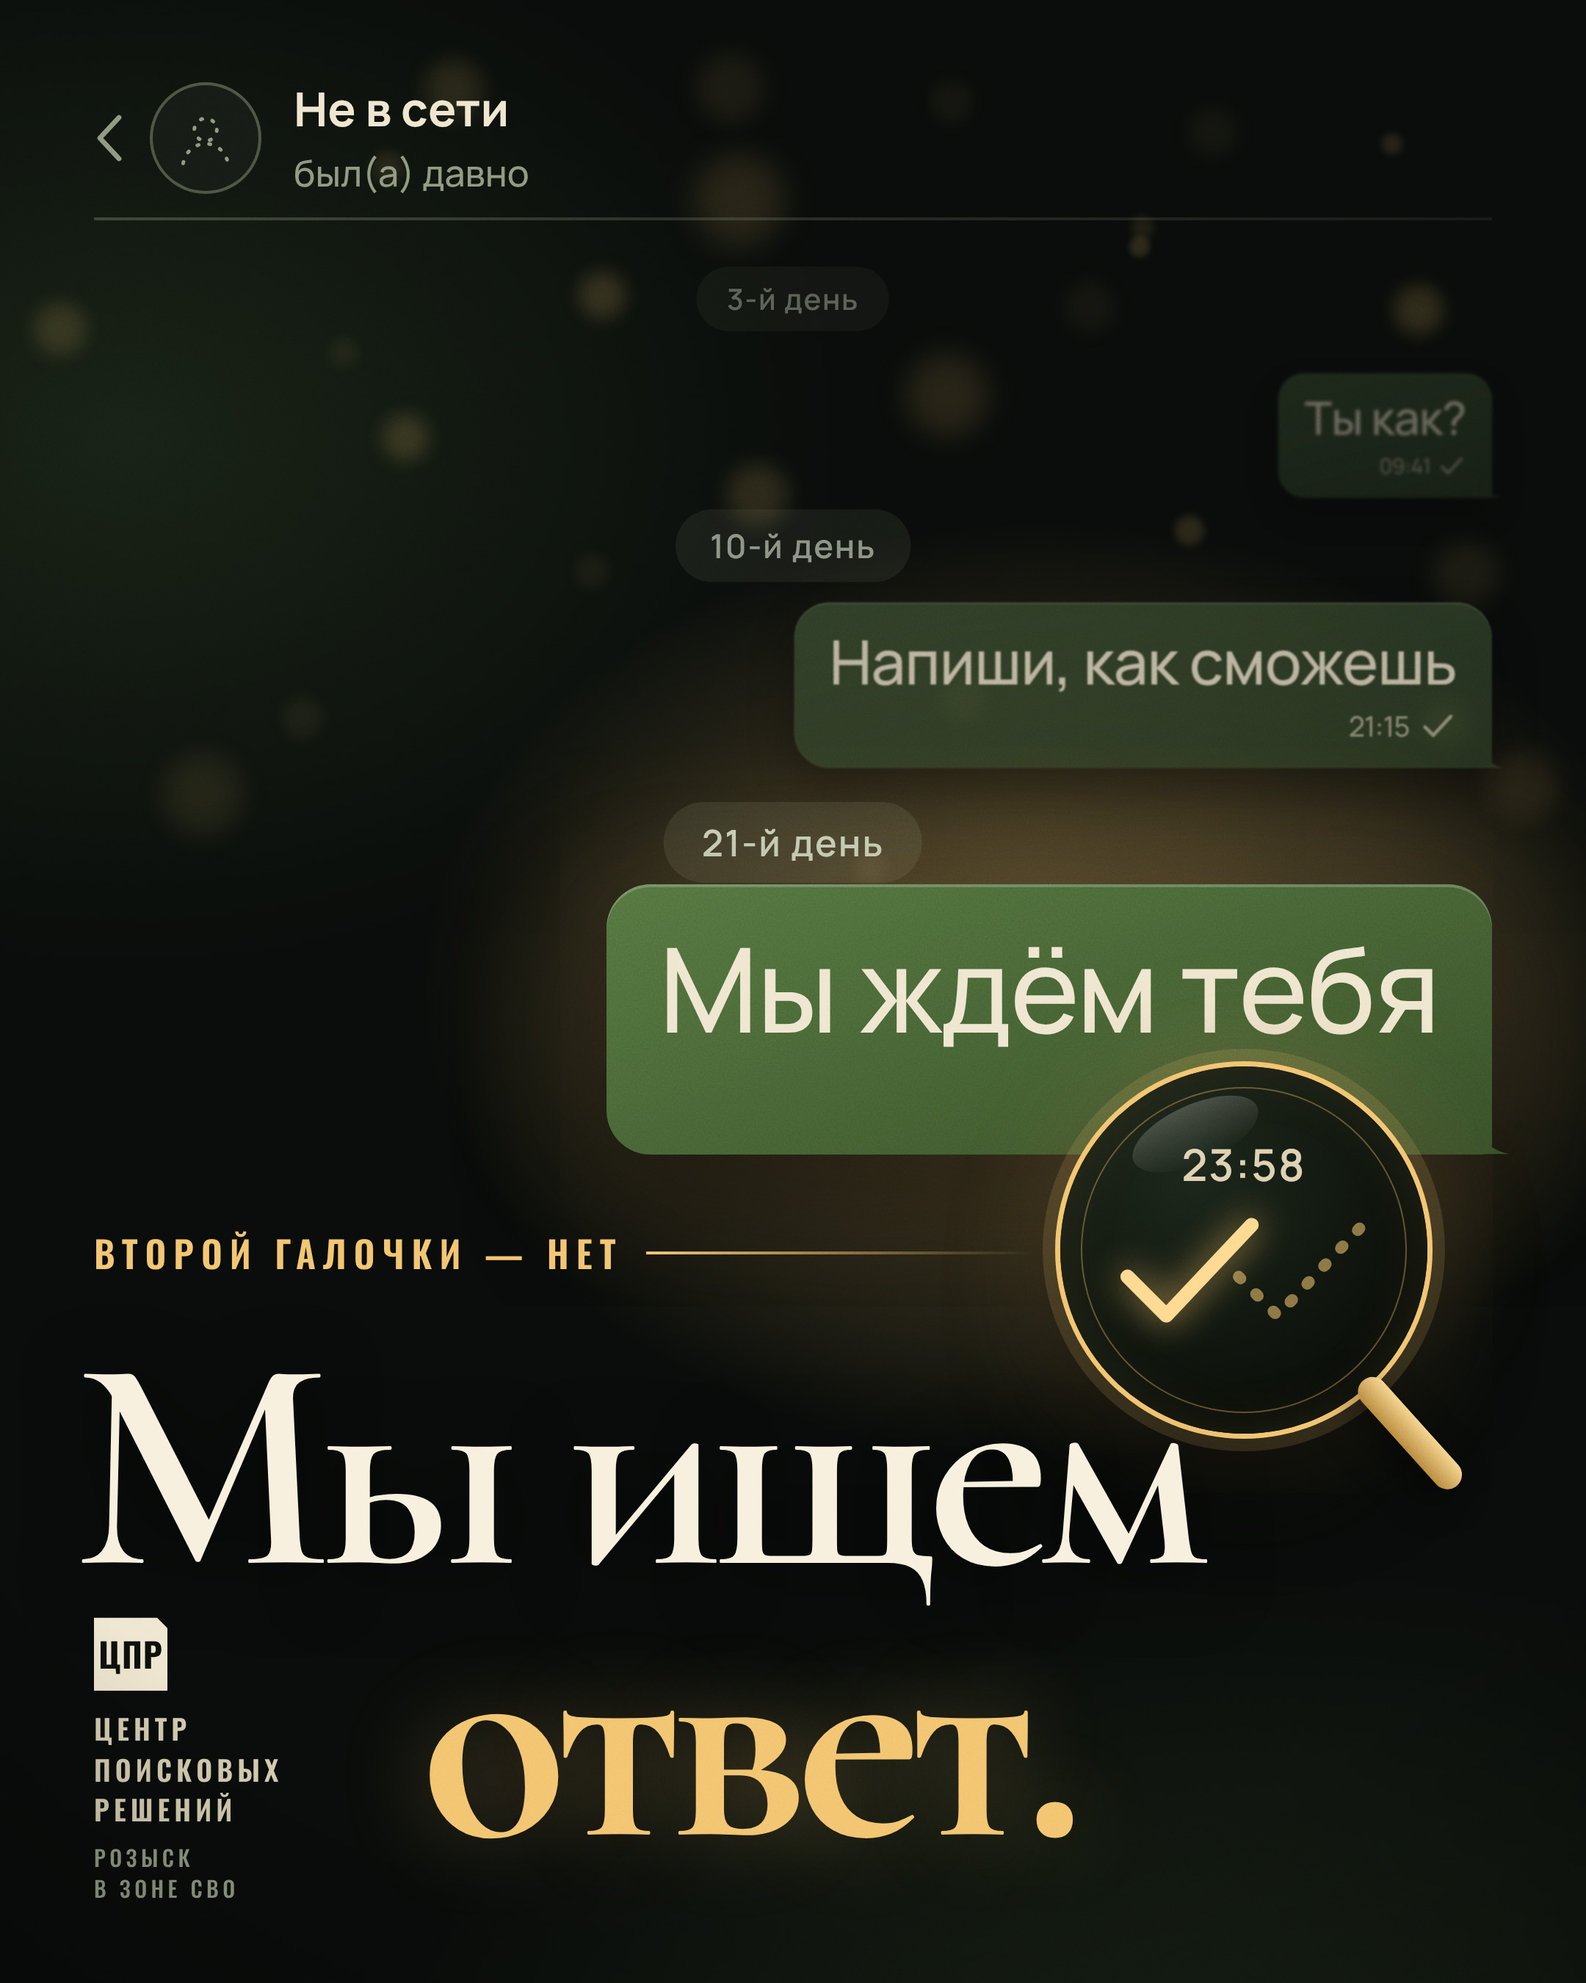
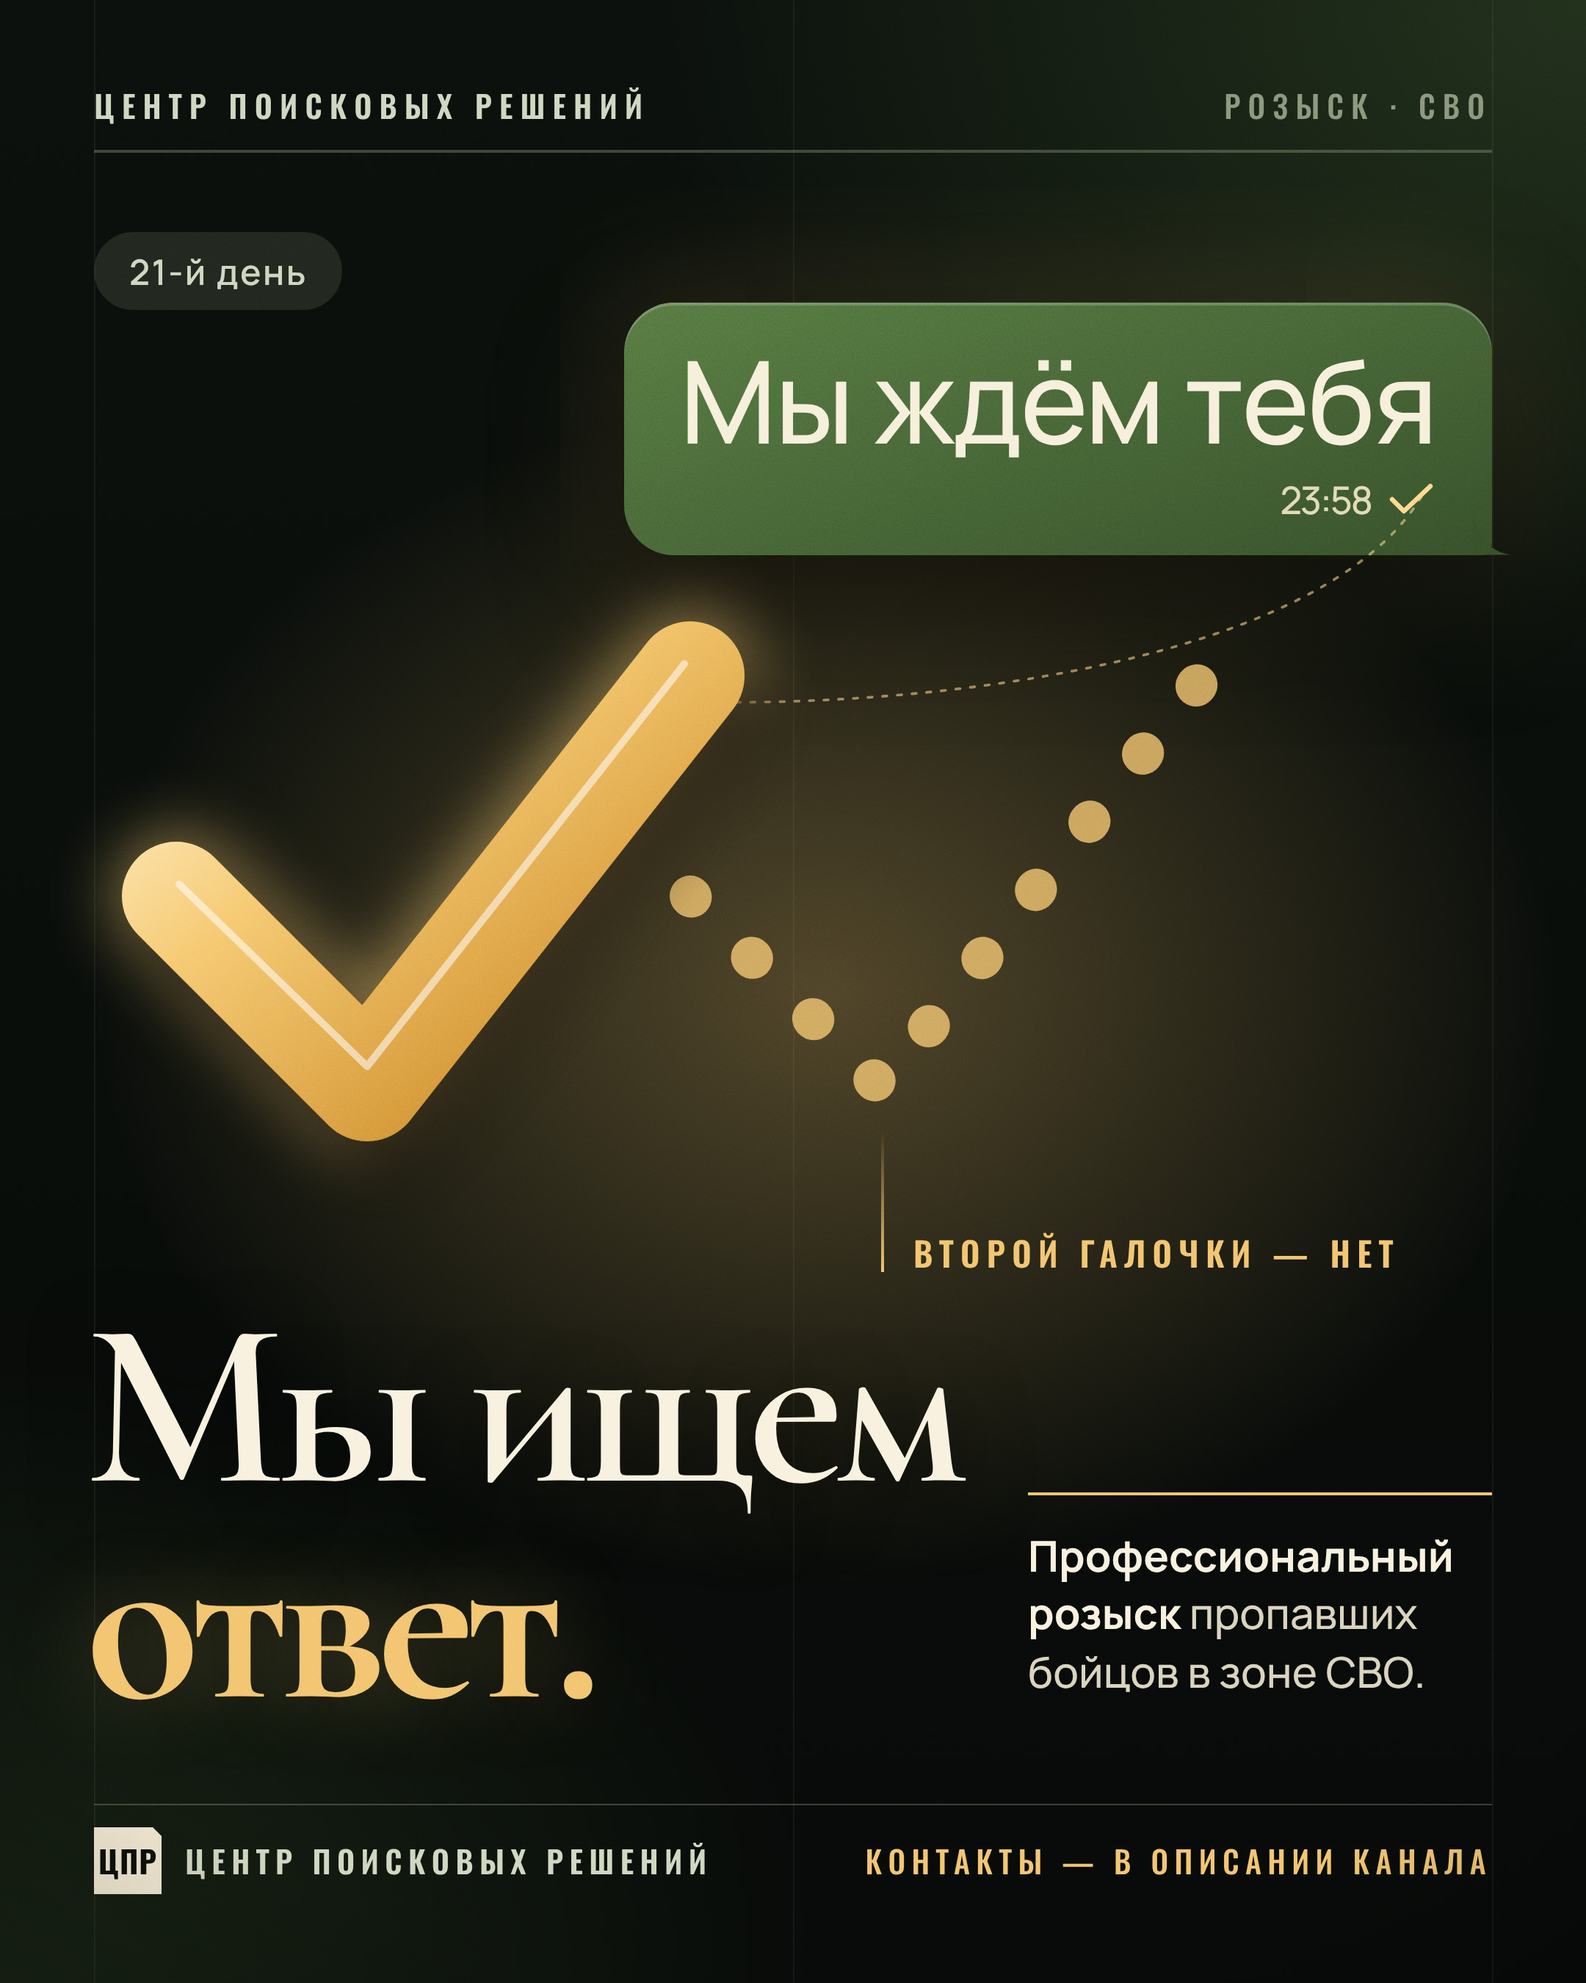
Redesign chat post on a strict grid: giant gold tick hero, dotted missing tick, editorial type
Claude-Session: https://claude.ai/code/session_01NuJDMPrCwZ36H1xaabvcxP

diff --git a/psr-promo/src/post_chat.html b/psr-promo/src/post_chat.html
@@ -2,77 +2,67 @@
 <html lang="ru"><head><meta charset="utf-8"><title>ЦПР — пост «Одна галочка»</title>
 <link rel="stylesheet" href="/fonts/fonts.css"><link rel="stylesheet" href="/fonts/post.css"><link rel="stylesheet" href="/fonts/post2.css">
 <style>
-:root{--ink:#090c0a;--bub:#2f3f27;--sand:#efe6cf;--gold:#f2c46f;--gold2:#ffe2a3;--mute:#8d987f}
+:root{--ink:#080b09;--sand:#f1e8d0;--gold:#f2c46f;--mute:#8a957c;--m:64px}
 *{box-sizing:border-box;margin:0;padding:0}html,body{background:#000}
 .post{width:1080px;height:1350px;position:relative;overflow:hidden;background:var(--ink);color:var(--sand);font-family:Manrope,sans-serif}
-.glow{position:absolute;inset:0;background:
- radial-gradient(560px 420px at 66% 50%,rgba(242,196,111,.34),rgba(242,196,111,.09) 58%,transparent 76%),
- radial-gradient(700px 520px at 8% 22%,rgba(60,84,48,.30),transparent 70%),
- radial-gradient(900px 600px at 80% 110%,rgba(40,56,32,.55),transparent 70%)}
-.bokeh{position:absolute;inset:0}
-.hdr{position:absolute;left:64px;right:64px;top:52px;display:flex;align-items:center;gap:22px}
-.back{width:20px;height:34px;fill:none;stroke:var(--mute);stroke-width:3.4;stroke-linecap:round;stroke-linejoin:round;margin-right:-4px}
-.av{width:76px;height:76px;border-radius:50%;background:#161c15;box-shadow:inset 0 0 0 2px rgba(141,152,127,.45);display:grid;place-items:center}
-.av svg{width:42px;height:42px;fill:none;stroke:var(--mute);stroke-width:2.6;stroke-linecap:round;stroke-dasharray:1 7.5}
-.hdr b{display:block;font:700 32px Manrope}.hdr small{display:block;font:500 25px Manrope;color:var(--mute);margin-top:4px}
-.line{position:absolute;left:64px;right:64px;top:148px;height:1.5px;background:linear-gradient(90deg,rgba(141,152,127,.35),rgba(141,152,127,.1))}
-.pill{position:absolute;left:50%;padding:10px 26px;border-radius:30px;background:rgba(141,152,127,.16);font:600 25px Manrope;letter-spacing:.04em;color:#c9d2bd;white-space:nowrap}
-.msg{position:absolute;right:64px;transform-origin:100% 50%}
-.bub{position:relative;display:inline-block;background:linear-gradient(165deg,#3a4d30,#2b3a24);color:var(--sand);padding:22px 30px 20px;border-radius:30px 30px 7px 30px;font:500 52px/1.12 Manrope;letter-spacing:-.012em;box-shadow:inset 0 1.5px 0 rgba(255,255,255,.12),0 18px 40px rgba(0,0,0,.45)}
-.bub:after{content:"";position:absolute;right:-12px;bottom:0;width:24px;height:26px;background:#2b3a24;clip-path:path('M0 0V26H24C10 24 3 14 0 0Z')}
-.bub .m{display:flex;align-items:center;justify-content:flex-end;gap:10px;margin-top:8px;font:500 24px Manrope;color:rgba(239,230,207,.62)}
-.bub svg{width:30px;height:22px;fill:none;stroke:rgba(239,230,207,.62);stroke-width:3;stroke-linecap:round;stroke-linejoin:round}
-.last{background:linear-gradient(160deg,#557640,#385029);font-size:80px;padding:26px 36px 22px;box-shadow:inset 0 2px 0 rgba(255,255,255,.2),0 36px 90px rgba(0,0,0,.6),0 0 110px rgba(242,196,111,.26)}
-.last:after{background:#385029}
-.last .m{font-size:28px;visibility:hidden} .last svg{stroke:var(--gold);width:38px;height:28px}
-.lens{position:absolute;left:722px;top:726px;width:250px;height:250px;border-radius:50%;background:radial-gradient(circle at 35% 28%,#1c261a,#0a0e09 72%);box-shadow:0 0 0 3.5px var(--gold),0 0 0 12px rgba(242,196,111,.14),0 30px 70px rgba(0,0,0,.7),0 0 80px rgba(242,196,111,.30),inset 0 0 40px rgba(242,196,111,.10);display:grid;place-items:center}
-.lens:before{content:"";position:absolute;inset:14px;border-radius:50%;box-shadow:inset 0 0 0 1px rgba(242,196,111,.35)}
-.lens:after{content:"";position:absolute;left:46px;top:26px;width:92px;height:40px;border-radius:50%;background:linear-gradient(180deg,rgba(255,255,255,.2),transparent);transform:rotate(-24deg)}
-.lens .t{position:absolute;top:46px;left:0;right:0;text-align:center;font:600 30px Manrope;color:rgba(255,240,205,.85);letter-spacing:.03em}
-.lens svg{width:176px;height:97px;margin-top:30px;overflow:visible}
-.handle{position:absolute;left:928px;top:930px;width:96px;height:20px;border-radius:12px;background:linear-gradient(180deg,#f7d58f,#b88a3d);transform:rotate(48deg);transform-origin:0 50%;box-shadow:0 10px 24px rgba(0,0,0,.5)}
-.note{position:absolute;left:64px;right:376px;top:834px;display:flex;align-items:center;gap:16px;font:600 25px Oswald;letter-spacing:.2em;color:var(--gold)}
-.note i{display:block;flex:1;height:2px;background:linear-gradient(90deg,var(--gold),rgba(242,196,111,.0));}
-h1{position:absolute;left:50px;top:906px;font:600 206px/.9 'Cormorant Garamond',serif;letter-spacing:-.04em;color:#f7f0de;text-shadow:0 8px 50px rgba(0,0,0,.6)}
+.bg{position:absolute;inset:0;background:
+ radial-gradient(640px 520px at 52% 50%,rgba(242,196,111,.30),rgba(242,196,111,.07) 60%,transparent 78%),
+ radial-gradient(900px 700px at 100% 0%,rgba(52,74,40,.55),transparent 70%),
+ radial-gradient(800px 600px at 0% 100%,rgba(40,58,32,.5),transparent 70%),
+ linear-gradient(180deg,#0b100c,#070a08)}
+.cols{position:absolute;inset:0}
+.cols i{position:absolute;top:0;bottom:0;width:1px;background:rgba(190,200,170,.07)}
+.top{position:absolute;left:var(--m);right:var(--m);top:56px;display:flex;justify-content:space-between;align-items:center;font:600 21px Oswald;letter-spacing:.24em;color:#cfd6bf}
+.top span:last-child{color:var(--mute);font-weight:500}
+.top:after{content:"";position:absolute;left:0;right:0;top:46px;height:1.5px;background:rgba(190,200,170,.28)}
+.pill{position:absolute;left:var(--m);top:158px;padding:10px 24px;border-radius:30px;background:rgba(138,149,124,.18);font:600 24px Manrope;letter-spacing:.05em;color:#cdd6c0}
+.bub{position:absolute;right:var(--m);top:206px;padding:24px 38px 20px;border-radius:34px 34px 8px 34px;background:linear-gradient(160deg,#577a42,#36502a);font:500 78px/1.1 Manrope;letter-spacing:-.015em;color:#f6efdb;box-shadow:inset 0 2px 0 rgba(255,255,255,.2),0 34px 80px rgba(0,0,0,.6),0 0 100px rgba(242,196,111,.22)}
+.bub:after{content:"";position:absolute;right:-13px;bottom:0;width:26px;height:28px;background:#36502a;clip-path:path('M0 0V28H26C11 26 3 15 0 0Z')}
+.bub .m{display:flex;justify-content:flex-end;align-items:center;gap:10px;margin-top:6px;font:500 26px Manrope;color:rgba(255,240,205,.85)}
+.bub .m svg{width:34px;height:25px;fill:none;stroke:#ffd98f;stroke-width:3.2;stroke-linecap:round;stroke-linejoin:round}
+svg.hero{position:absolute;left:0;top:360px;width:1080px;height:520px;overflow:visible}
+.ann{position:absolute;left:622px;top:836px;font:600 23px Oswald;letter-spacing:.2em;color:var(--gold)}
+.ann i{position:absolute;left:-22px;top:-66px;width:2px;height:96px;background:linear-gradient(180deg,rgba(242,196,111,0),var(--gold))}
+h1{position:absolute;left:var(--m);top:884px;font:600 160px/.92 'Cormorant Garamond',serif;letter-spacing:-.04em;color:#f8f1de;text-shadow:0 10px 50px rgba(0,0,0,.6);margin-left:-6px}
 h1 span{display:block;white-space:nowrap}
-h1 .g{color:var(--gold);margin-left:236px;font-weight:700;text-shadow:0 0 60px rgba(242,196,111,.32)}
-.brand{position:absolute;left:64px;bottom:54px;width:200px}
-.mark{width:50px;height:50px;background:var(--sand);color:#0c100b;display:grid;place-items:center;font:700 23px Oswald;letter-spacing:.02em;clip-path:polygon(0 0,86% 0,100% 14%,100% 100%,0 100%);margin-bottom:12px}
-.brand b{display:block;font:600 19px/1.45 Oswald;letter-spacing:.16em;color:#d5cdb0}
-.brand small{display:block;margin-top:8px;font:500 15px/1.4 Oswald;letter-spacing:.18em;color:var(--mute)}
+h1 .g{color:var(--gold);font-weight:700;text-shadow:0 0 60px rgba(242,196,111,.30)}
+.col{position:absolute;left:700px;right:var(--m);top:1016px;padding-top:22px;border-top:2.5px solid var(--gold);font:500 29px/1.36 Manrope;color:#d9d3bd}
+.col b{color:#f8f1de;font-weight:700}
+.foot{position:absolute;left:var(--m);right:var(--m);bottom:46px;height:76px;border-top:1.5px solid rgba(190,200,170,.28);display:flex;align-items:center;justify-content:space-between;font:600 21px Oswald;letter-spacing:.2em;color:#cfd6bf}
+.foot .l{display:flex;align-items:center;gap:16px}
+.mark{width:46px;height:46px;background:var(--sand);color:#0c100b;display:grid;place-items:center;font:700 21px Oswald;letter-spacing:.02em;clip-path:polygon(0 0,86% 0,100% 14%,100% 100%,0 100%)}
+.foot .r{color:var(--gold);font-weight:500}
 .grain{position:absolute;inset:0;mix-blend-mode:overlay;opacity:.24;pointer-events:none}
-.vig{position:absolute;inset:0;background:radial-gradient(120% 100% at 50% 40%,transparent 55%,rgba(0,0,0,.65))}
+.vig{position:absolute;inset:0;background:radial-gradient(120% 100% at 50% 42%,transparent 58%,rgba(0,0,0,.6))}
 </style></head>
 <body><div class="post" id="post">
-<div class="glow"></div>
-<svg class="bokeh" width="1080" height="1350" id="bk"></svg>
-<div class="hdr"><svg class="back" viewBox="0 0 20 34"><path d="M17 3L4 17l13 14"/></svg><div class="av"><svg viewBox="0 0 44 44"><circle cx="22" cy="16" r="8"/><path d="M6 40c2-10 10-14 16-14s14 4 16 14"/></svg></div><div><b>Не в сети</b><small>был(а) давно</small></div></div>
-<div class="line"></div>
+<div class="bg"></div>
+<div class="cols"><i style="left:64px"></i><i style="left:540px"></i><i style="left:1016px"></i></div>
+<div class="top"><span>ЦЕНТР ПОИСКОВЫХ РЕШЕНИЙ</span><span>РОЗЫСК · СВО</span></div>
+<div class="pill">21-й день</div>
+<div class="bub">Мы ждём тебя<div class="m">23:58 <svg viewBox="0 0 34 25"><path d="M4 13l8 8L30 4"/></svg></div></div>
 
-<div class="pill" style="top:176px;transform:translateX(-50%) scale(.8);opacity:.42">3-й день</div>
-<div class="msg" style="top:226px;transform:scale(.6);opacity:.42;filter:blur(1.8px)"><div class="bub">Ты как?<div class="m">09:41 <svg viewBox="0 0 30 22"><path d="M3 12l7 7L25 3"/></svg></div></div></div>
-
-<div class="pill" style="top:344px;transform:translateX(-50%) scale(.9);opacity:.68">10-й день</div>
-<div class="msg" style="top:396px;transform:scale(.8);opacity:.74;filter:blur(.5px)"><div class="bub">Напиши, как сможешь<div class="m">21:15 <svg viewBox="0 0 30 22"><path d="M3 12l7 7L25 3"/></svg></div></div></div>
-
-<div class="pill" style="top:546px;transform:translateX(-50%)">21-й день</div>
-<div class="msg" style="top:602px"><div class="bub last">Мы ждём тебя<div class="m">23:58 <svg viewBox="0 0 30 22"><path d="M3 12l7 7L25 3"/></svg></div></div></div>
-
-<div class="lens"><div class="t">23:58</div>
- <svg viewBox="0 0 200 110" fill="none" stroke-linecap="round" stroke-linejoin="round">
-  <path d="M96 58l30 30 66-70" stroke="rgba(242,196,111,.55)" stroke-width="9" stroke-dasharray="2 17"/>
-  <path d="M10 58l30 30 66-70" stroke="#ffd98f" stroke-width="11" style="filter:drop-shadow(0 0 14px rgba(255,200,110,.7))"/>
- </svg></div>
-<div class="handle"></div>
-<div class="note">ВТОРОЙ ГАЛОЧКИ — НЕТ<i></i></div>
+<svg class="hero" viewBox="0 0 1080 520" fill="none" stroke-linecap="round" stroke-linejoin="round">
+ <defs>
+  <linearGradient id="gd" x1="0" y1="0" x2="1" y2="1"><stop offset="0" stop-color="#fff3cf"/><stop offset=".35" stop-color="#f6c970"/><stop offset=".75" stop-color="#d79a3b"/><stop offset="1" stop-color="#a8721f"/></linearGradient>
+  <linearGradient id="cone" x1="0" y1="0" x2="0" y2="1"><stop offset="0" stop-color="#ffd98f" stop-opacity=".65"/><stop offset="1" stop-color="#ffd98f" stop-opacity=".05"/></linearGradient>
+  <filter id="gl" x="-30%" y="-30%" width="160%" height="170%"><feGaussianBlur stdDeviation="22"/></filter>
+  <filter id="sh" x="-20%" y="-20%" width="150%" height="170%"><feDropShadow dx="14" dy="26" stdDeviation="18" flood-color="#000" flood-opacity=".55"/></filter>
+ </defs>
+ <!-- pointer from the bubble tick to the big one -->
+ <path d="M968 -22 C 900 90, 640 120, 486 118" stroke="rgba(255,217,143,.55)" stroke-width="1.8" stroke-dasharray="3 7"/><circle cx="470" cy="106" r="9" stroke="#ffd98f" stroke-width="2.4" fill="rgba(255,217,143,.25)"/>
+ <!-- the missing second tick -->
+ <path d="M470 250 L600 380 L820 100" stroke="rgba(242,196,111,.80)" stroke-width="28" stroke-dasharray="1 58"/>
+ <!-- the delivered tick -->
+ <path d="M120 250 L250 380 L470 100" stroke="#ffd37a" stroke-width="86" filter="url(#gl)" opacity=".5"/>
+ <g filter="url(#sh)"><path d="M120 250 L250 380 L470 100" stroke="url(#gd)" stroke-width="74"/></g>
+ <path d="M122 242 L250 366 L466 92" stroke="rgba(255,255,255,.55)" stroke-width="5"/>
+</svg>
+<div class="ann"><i></i>ВТОРОЙ ГАЛОЧКИ — НЕТ</div>
 
 <h1><span>Мы ищем</span><span class="g">ответ.</span></h1>
-<div class="brand"><div class="mark">ЦПР</div><b>ЦЕНТР<br>ПОИСКОВЫХ<br>РЕШЕНИЙ</b><small>РОЗЫСК<br>В ЗОНЕ СВО</small></div>
+<div class="col"><b>Профессиональный розыск</b> пропавших бойцов в&nbsp;зоне&nbsp;СВО.</div>
+<div class="foot"><div class="l"><div class="mark">ЦПР</div><span>ЦЕНТР ПОИСКОВЫХ РЕШЕНИЙ</span></div><div class="r">КОНТАКТЫ — В ОПИСАНИИ КАНАЛА</div></div>
 <div class="vig"></div>
 <svg class="grain" width="1080" height="1350"><filter id="n"><feTurbulence type="fractalNoise" baseFrequency=".85" numOctaves="3" seed="11"/><feColorMatrix values="0 0 0 0 .5  0 0 0 0 .5  0 0 0 0 .5  0 0 0 1.3 -.3"/></filter><rect width="100%" height="100%" filter="url(#n)"/></svg>
-</div>
-<script>
-let s=21;const r=()=>((s=(s*1664525+1013904223)>>>0)/4294967296);let h='';
-for(let i=0;i<26;i++){const x=r()*1080,y=r()*620,rad=6+r()*26,a=.05+r()*.12;h+=`<circle cx="${x.toFixed(0)}" cy="${y.toFixed(0)}" r="${rad.toFixed(0)}" fill="rgba(242,196,111,${a.toFixed(2)})" style="filter:blur(${(rad*.35).toFixed(0)}px)"/>`;}
-document.getElementById('bk').innerHTML=h;
-</script></body></html>
+</div></body></html>

diff --git a/psr-promo/post_static.md b/psr-promo/post_static.md
@@ -1,6 +1,6 @@
 # Статичный пост «Одна галочка — мы ищем ответ»
 
-Концепция: чат, где на «Ты как?» через 3, 10 и 21 день остаётся одна галочка (сообщение не прочитано). Образ ожидания без показа тяжёлого.
+Концепция: сообщение «Мы ждём тебя» с одной галочкой (не прочитано). Огромная золотая галочка и пунктирная, недостающая вторая: «Второй галочки — нет». Заголовок «Мы ищем ответ.».
 Картинка: `out/post_chat_1080x1350.jpg` (1080×1350, 4:5), вдвое чётче: `out/post_chat_2160x2700.jpg`. Исходник: `src/post_chat.html`. Отправляйте как фото.
 
 ## Подпись
